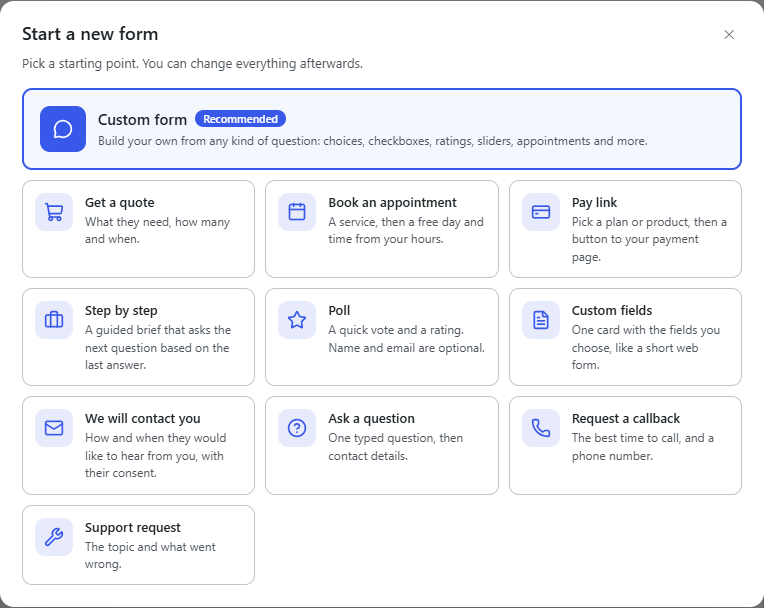
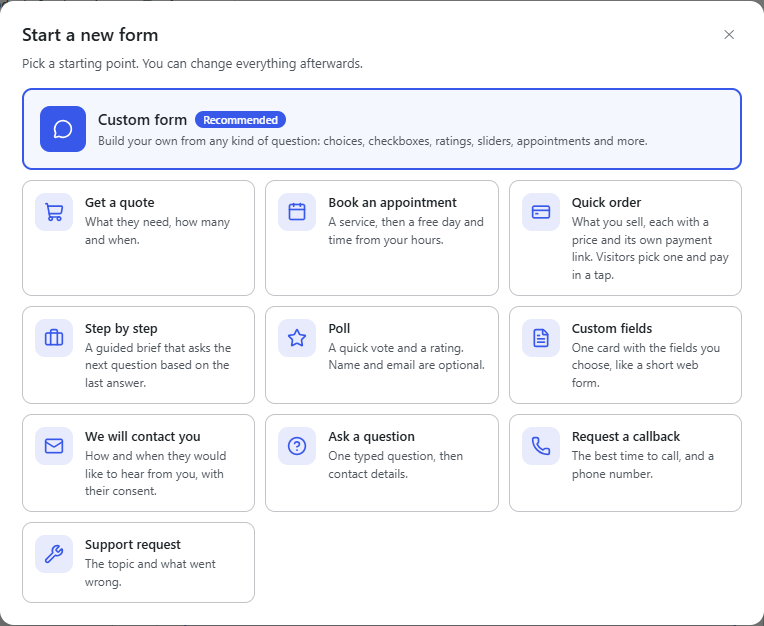
Aluvo Chat 2.3.0: guided form builder and quick order

diff --git a/README.md b/README.md
@@ -10,7 +10,7 @@
 </p>
 
 <p align="center">
-  <b>Free 2.2.0</b> · <b>Pro add-on 2.2.0</b> · WordPress 5.3+ · PHP 7.2+ · Follows your WordPress language
+  <b>Free 2.3.0</b> · <b>Pro add-on 2.3.0</b> · WordPress 5.3+ · PHP 7.2+ · Follows your WordPress language
 </p>
 
 ---
@@ -41,6 +41,8 @@ The free plugin is complete on its own. Pro is an add-on that installs beside it
 | Unlimited forms and requests | ✓ | ✓ |
 | Checkboxes, yes or no, ratings, sliders, appointments, consent and payment links in forms | ✓ | ✓ |
 | Steps that appear only when an earlier answer matches | ✓ | ✓ |
+| Quick order: items with a price and their own payment link | ✓ | ✓ |
+| A guided builder that shows what each form still needs | ✓ | ✓ |
 | Contact buttons and bottom bar with brand icons | ✓ | ✓ |
 | Requests saved in WordPress and emailed | ✓ | ✓ |
 | Colour and gradient themes, button shapes, six border types, inside colour or gradient, phone settings | ✓ | ✓ |
@@ -116,7 +118,19 @@ Five animations come free: Spinning border, Floating, Ripple rings, Comet and He
 
 Forms, steps and a preview side by side. New forms start from a template, each form gets an icon from a gallery, and every field explains itself.
 
-Fourteen kinds of question, all free: multiple choice, checkboxes, yes or no, typed answers, form fields, star ratings, sliders for a budget or any number, appointments that offer only free days and times from your hours, a consent box with a link to your policy, a payment or link button, quantities, and product steps. Any step can be set to appear only when an earlier answer matches, so a form asks for a date only if the visitor has a deadline.
+Every template explains what it does, and a "Finish setting up" list shows exactly what is still missing (a payment link, example choices to replace, an unnamed field) and takes you to it. Each step shows what it holds at a glance, and the ones that need something are marked.
+
+<img src="media/form-setup.png" width="62%" alt="A new Quick order form: what it does, a Finish setting up list with Fix buttons, and its items with prices and payment links">
+
+**Quick order** turns the chat into a small shop: list what you sell with a price, a short description and its own payment link from Stripe, PayPal or any checkout. Visitors pick one, see it with its price and pay in a tap, and you get their details too. Any choice can also carry a small **View** link to a product's page.
+
+<p align="center">
+  <img src="media/quick-order.png" width="40%" alt="Quick order in the chat: items with prices, and the picked one with a Pay now button">
+  &nbsp;
+  <img src="media/form-view-link.png" width="40%" alt="Choices with a small View link to each product's page">
+</p>
+
+Twelve kinds of question, all free: multiple choice, checkboxes, yes or no, typed answers, form fields, star ratings, sliders for a budget or any number, appointments that offer only free days and times from your hours, a consent box with a link to your policy, quick order or a link button, and quantities. Pro adds product category and product steps for your products and WooCommerce. Any step can be set to appear only when an earlier answer matches, so a form asks for a date only if the visitor has a deadline.
 
 <p align="center">
   <img src="media/form-booking.png" width="40%" alt="An appointment step: free days across the top, free times below">

diff --git a/CHANGELOG.md b/CHANGELOG.md
@@ -1,5 +1,12 @@
 # Changelog
 
+## Free 2.3.0 and Pro 2.3.0: a guided form builder, quick orders
+
+- **The builder guides you:** each template explains itself, and "Finish setting up" lists what is missing and jumps straight to it. Steps show what they hold; the ones that need something are marked.
+- **Quick order:** items with a price, a short description and their own payment link; visitors pick one and pay in a tap.
+- **View links** on choices, for example to a product's page.
+- **Product steps** now come with Pro, where your products and WooCommerce live.
+
 ## Free 2.2.0 and Pro 2.2.0: smarter forms, live chat agents
 
 - **Seven new kinds of question, free:** checkboxes, yes or no, rating, slider, appointment, consent and a payment or link button.
